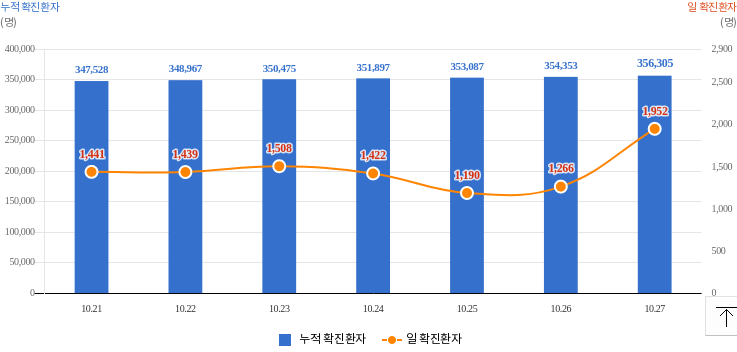
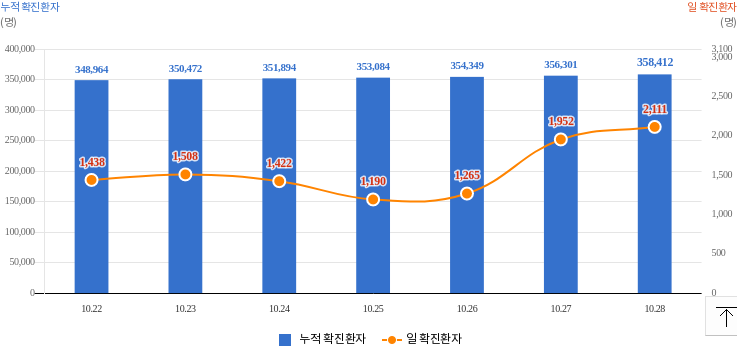
Run crawler and update current data

diff --git a/data.js b/data.js
@@ -7,7 +7,7 @@ var 검사중 = '1,257';
 var 검사결과 = '488,560';
 var 자가격리자 = '168';
 var 거리두기단계 = '사회적 거리두기  3단계 시행 : 2021. 10. 18.(월) 0시 ~ 10. 31.(일) 24시';
-var 국내발생 = '1,930';
-var 해외발생 = '22';
-var 합계 = '1952';
+var 국내발생 = '2,095';
+var 해외발생 = '16';
+var 합계 = '2111';
 var data = [];
